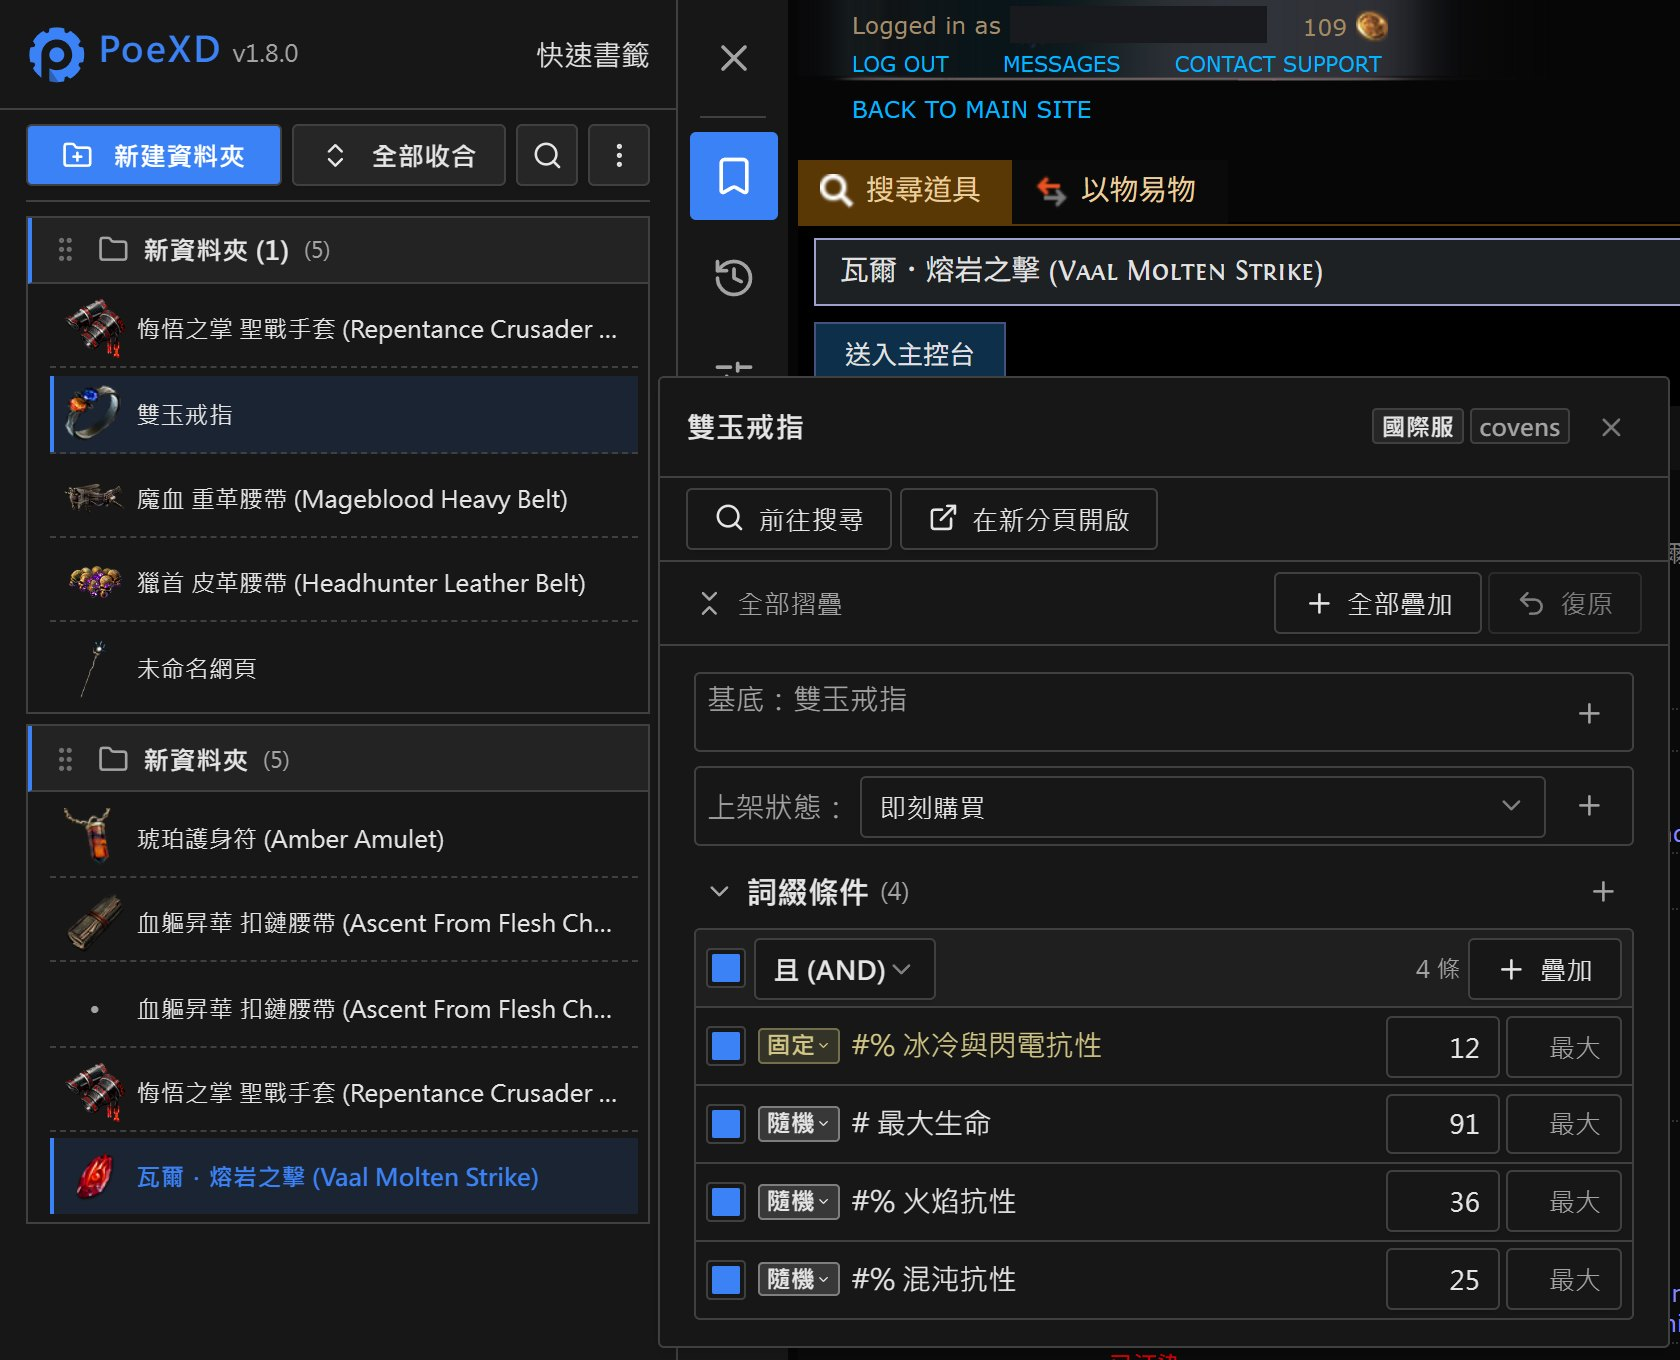
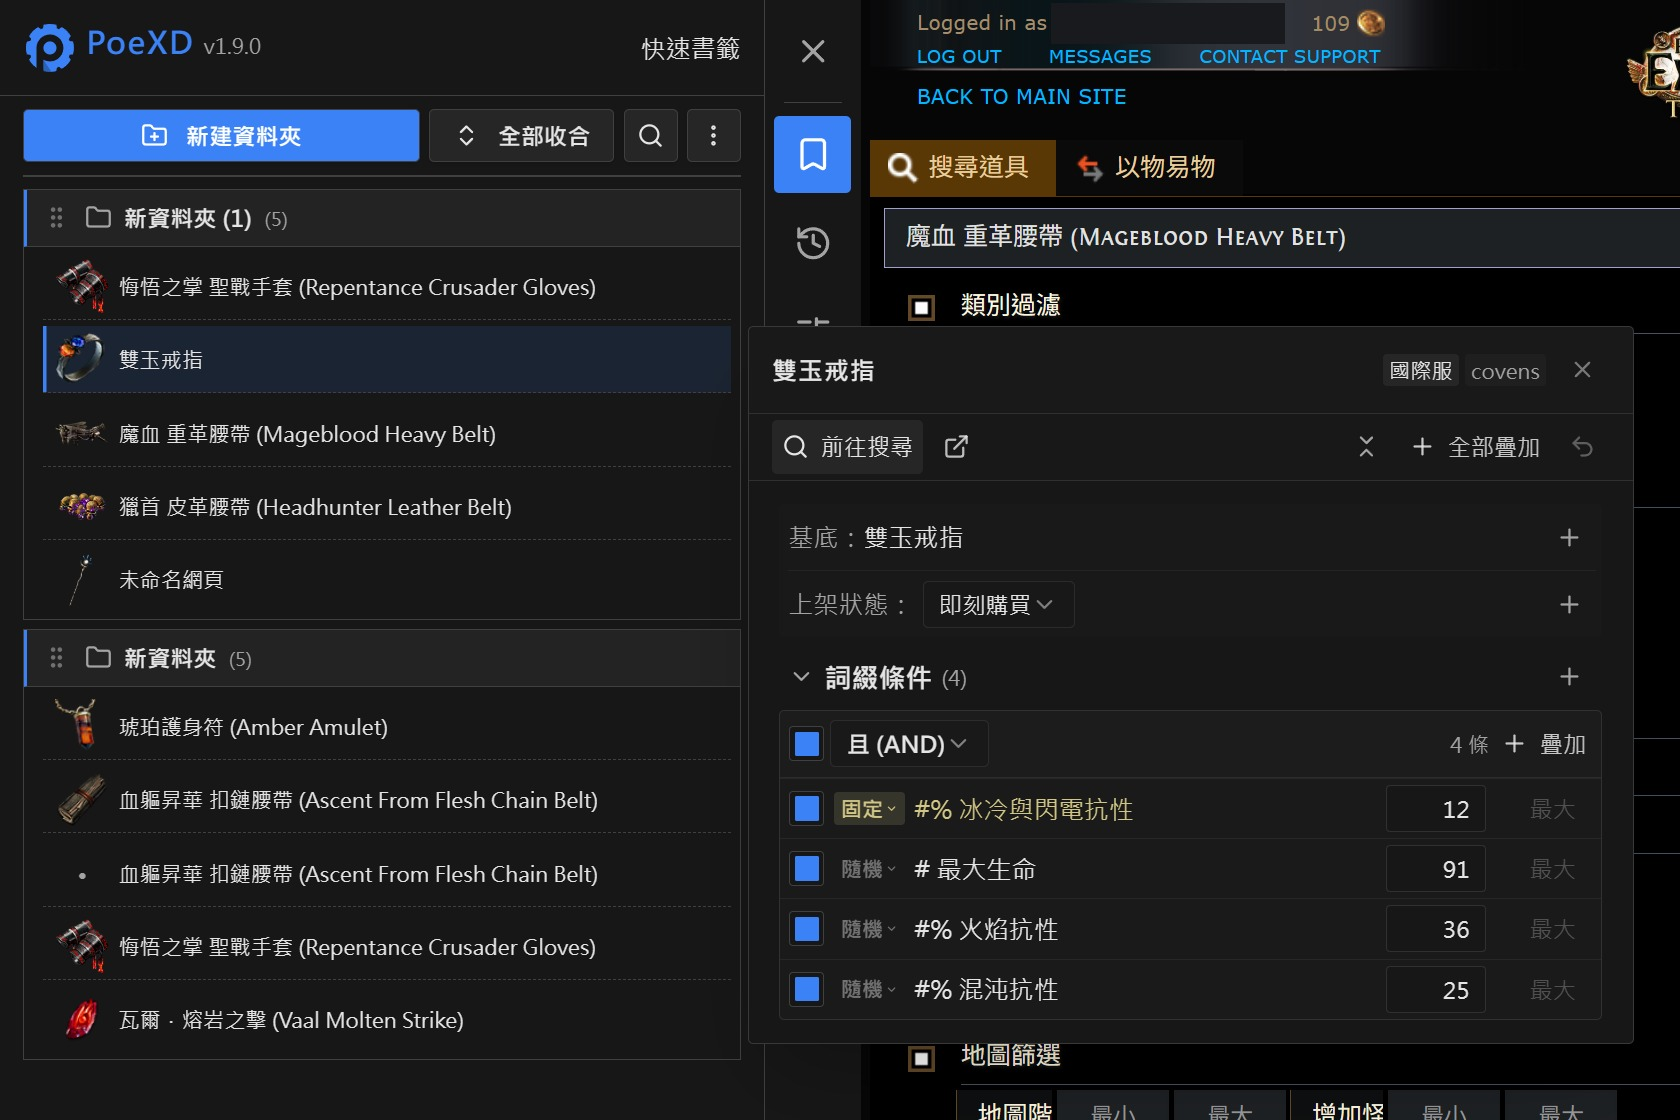
docs: update PoeXD search preview screenshot

diff --git a/poexd/index.html b/poexd/index.html
@@ -142,7 +142,7 @@
       <h3>搜尋預覽</h3>
       <p>點書籤或歷史紀錄的名稱會先打開搜尋預覽（名稱旁的箭頭才是直接開啟搜尋），可以看到它背後的實際條件，在預覽視窗中微調詞綴，或只把其中幾條詞綴疊加到目前的搜尋。</p>
       <figure class="shot">
-        <img src="../assets/poexd/search-preview.jpg" width="840" height="680" alt="點書籤名稱打開的搜尋預覽視窗，列出基底、上架狀態與詞綴條件，每項都可單獨疊加" loading="lazy">
+        <img src="../assets/poexd/search-preview.jpg" width="840" height="560" alt="點書籤名稱打開的搜尋預覽視窗，列出基底、上架狀態與詞綴條件，每項都可單獨疊加" loading="lazy">
         <figcaption>搜尋預覽：可先微調數值，再單獨疊加或開啟搜尋。</figcaption>
       </figure>
     </section>
